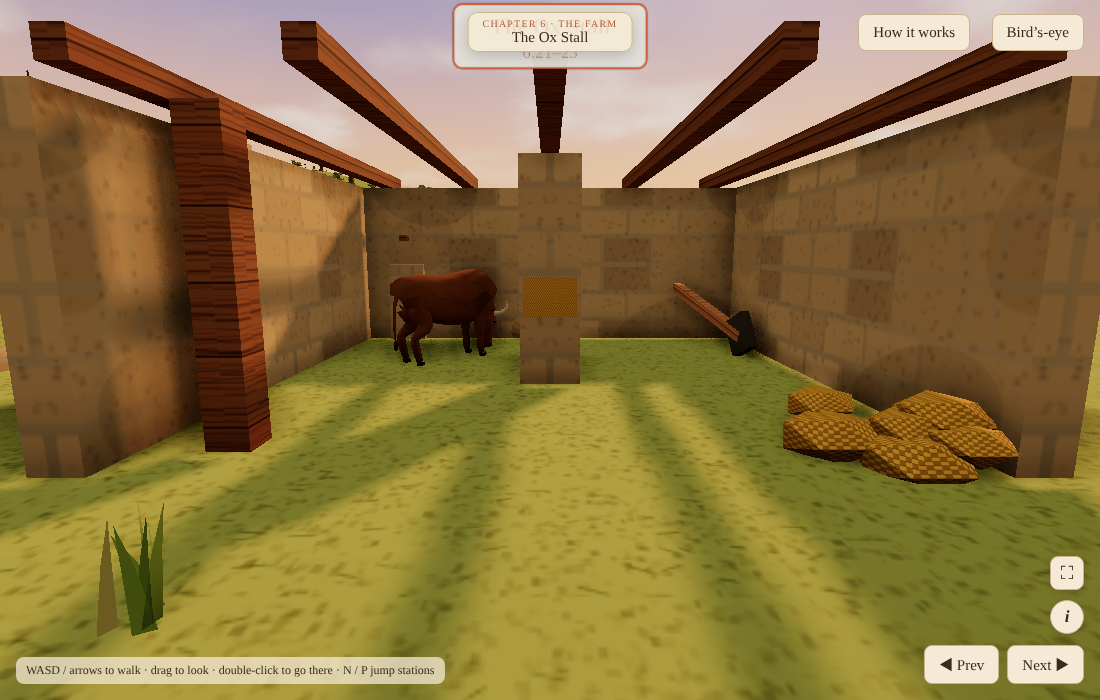
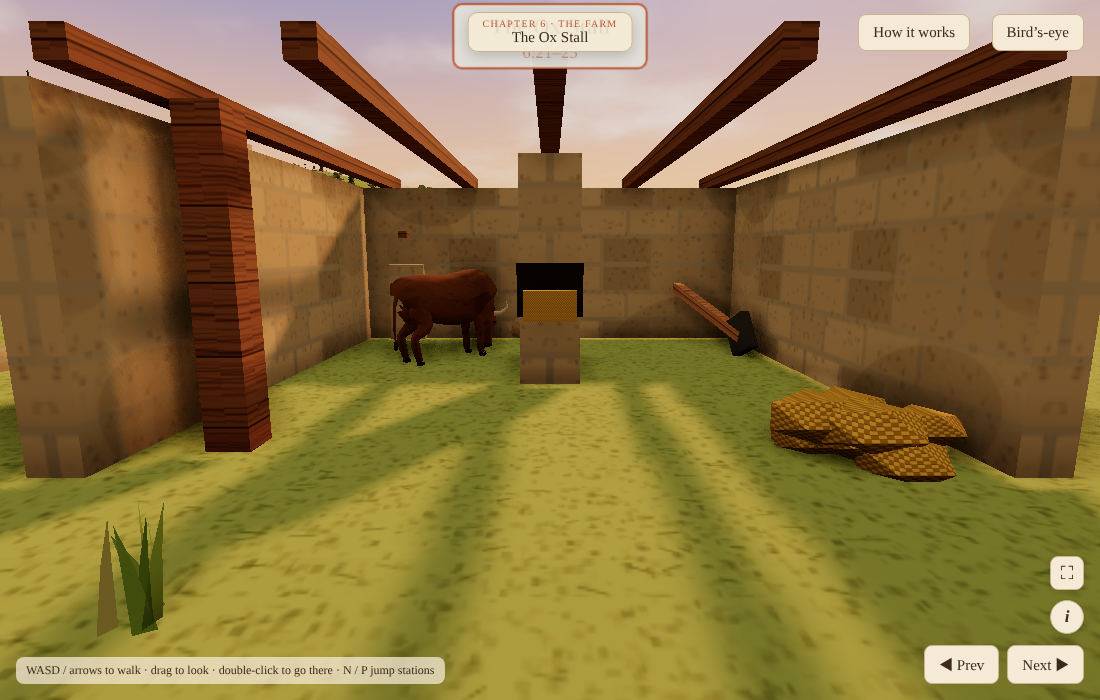
Sermon on the Mount: plain Galilean houses instead of library villas; fixes to the ten weakest rooms (phase 4 pass 2)
Claude-Session: https://claude.ai/code/session_011GTaBjBmrRYMxR8CbFEKPF

Changed region(s): [[0.68, 0.54, 0.9273, 0.69], [0.4636, 0.36, 0.5564, 0.48], [0.34, 0.33, 0.3709, 0.36]]

diff --git a/som-ltm/world/farm.js b/som-ltm/world/farm.js
@@ -19,7 +19,7 @@ wallGaps(112, -104, 168, -104, 1.6, [[25, 31]]);      // south wall, the lower g
 wallRun(112, -6, 112, -104, 1.6); wallRun(168, -6, 168, -104, 1.6);
 wallGaps(112, -62, 168, -62, 1.1, [[26, 32]]);        // the terrace wall between the house and the fields, its gate at x 138–144
 for (const [x, z] of [[131, -6], [137, -6], [137, -104], [143, -104]]) box(.8, 2, .8, rockDk, x, heightAt(x, z) - .1, z);   // gate piers
-libAt('plaster-house-two-storey', 115.5, -16, Math.PI / 2, .9);   // the farmhouse behind the courtyard
+galHouse(115.5, -16, 8, 5, 3.2, Math.PI / 2, plasterM);   // the farmhouse behind the courtyard, its door towards the court
 // ---- 6.1 THE COURTYARD (6:1–5): gate pier · curtained doorway · stair to the roof · roof-roller · cistern lid ----
 defBuilder('som.court', (r, { ch }) => { const F = roomFrame(r), h = 2.6, sp = SQ(h).map(([f, s]) => F.at(f, s)), out = [];
   { const g = atR(F, 0, 0); box(2 * h + 2, .08, 2 * h + 2, paleM, 0, 0, 0, g); }                                      // the paving
@@ -49,13 +49,13 @@ defBuilder('som.store', (r, { ch }) => { const F = roomFrame(r), h = 2.3, sp = S
 
 // ---- 6.3 THE BAKEHOUSE YARD (6:11–15): sieve on its hook · woodpile · clay oven · smoke-stained corner · kneading bowl ----
 defBuilder('som.bake', (r, { ch }) => { const F = roomFrame(r), h = 2.5, sp = SQ(h).map(([f, s]) => F.at(f, s)), out = [];
-  { const g = atR(F, -h, -h); cyl(.07, .08, 1.9, 6, 'wood', 0, 0, 0, g); box(.3, .05, .05, 'wood', 0, 1.6, .12, g); const rim = add(new THREE.TorusGeometry(.34, .05, 6, 18), 'woodLt', 0, 1.3, .24, g); const mesh = cyl(.32, .32, .02, 16, mat('somMesh', '#d8c08a'), 0, 1.3, .24, g); mesh.material.map = TEX.wicker; mesh.rotation.x = Math.PI / 2; out.push(ground(sp[0], 1.95)); }   // the sieve, rim and mesh, hung on its post
+  { const g = atR(F, -h, -h); cyl(.07, .08, 1.9, 6, 'wood', 0, 0, 0, g); box(.3, .05, .05, 'wood', 0, 1.6, .12, g); const rim = add(new THREE.TorusGeometry(.26, .045, 6, 18), 'woodLt', 0, 1.3, .2, g); const mesh = cyl(.24, .24, .02, 16, mat('somMesh', '#d8c08a'), 0, 1.3, .24, g); mesh.material.map = TEX.wicker; mesh.rotation.x = Math.PI / 2; out.push(ground(sp[0], 1.95)); }   // the sieve, rim and mesh, hung on its post
   { const g = atR(F, h + 1.4, 0); box(2 * h + 3, 1, .45, mudM, 0, 0, 0, g); const g2 = atR(F, 0, -h - 1.4); box(.45, 1, 2 * h + 3, mudM, 0, 0, 0, g2); }   // low mud-brick yard walls
   { const g = atR(F, h, -h); for (let row = 0; row < 3; row++) for (let k = 0; k < 5 - row; k++) { const l = cyl(.11, .11, 1.3, 6, 'wood', -.5 + k * .24 + row * .12, .11 + row * .2, 0, g); l.rotation.x = Math.PI / 2; l.position.y = .11 + row * .2; } out.push(ground(sp[1], .75)); }   // the woodpile
-  { const [x, z] = sp[2], y = heightAt(x, z); const oy = libAt('bread-oven', x, z, F.yaw, 1);
+  { const [x, z] = sp[2], y = heightAt(x, z); const oy = libAt('bread-oven', x, z, F.yaw, 1.35);
     for (let k = 0; k < 4; k++) { const [lx, lz] = F.at(h - 1.1, h - .4 + k * .3); cyl(.17, .17, .05, 10, mat('somLoaf', '#c8964e'), lx, heightAt(lx, lz) + .02, lz); } out.push({ x, z, y: oy }); }   // the clay oven, loaves cooling beside it
-  { const g = atR(F, -h - .3, h + .3); box(.45, 1.1, 1.6, mudM, -.2, 0, .5, g); box(1.6, 1.1, .45, mudM, -.5, 0, .2, g); box(1.2, 1.1, .02, darkM, -.4, .02, -.03, g); box(.02, 1.1, 1.2, darkM, .03, .02, .2, g); for (let k = 0; k < 4; k++) box(.12, R(.5, 1), .02, mat('somSoot', '#2a2420'), -.9 + k * .3, .5, -.04, g); out.push(ground(sp[3], .2)); }   // the yard's corner, blackened with smoke
-  { const g = atR(F, 0, 0); box(.8, .45, .8, rockM, 0, 0, 0, g); cyl(.58, .36, .3, 18, clayM, 0, .45, 0, g); add(new THREE.CircleGeometry(.5, 18), mat('somDough', '#efe2c4'), 0, .72, 0, g).rotation.x = -Math.PI / 2; const cl = box(.9, .02, .5, clothM, .25, .76, .15, g); cl.rotation.z = -.25; out.push({ x: F.x, z: F.z, y: F.y + .9 }); }   // the wide kneading bowl, dough and a cloth
+  { const g = atR(F, -h - .3, h + .3); box(.45, 1.1, 1.6, mudM, -.2, 0, .5, g); box(1.6, 1.1, .45, mudM, -.5, 0, .2, g); box(1.2, 1.1, .02, darkM, -.4, .02, -.03, g); box(.02, 1.1, 1.2, darkM, .03, .02, .2, g); out.push(ground(sp[3], .2)); }   // the yard's corner, blackened with smoke
+  { const g = atR(F, 0, 0); for (const [a, b] of [[-.3, -.3], [.3, -.3], [-.3, .3], [.3, .3]]) cyl(.05, .05, .4, 5, 'wood', a, 0, b, g); box(.85, .06, .85, 'woodLt', 0, .4, 0, g); cyl(.58, .36, .3, 18, clayM, 0, .45, 0, g); add(new THREE.CircleGeometry(.5, 18), mat('somDough', '#efe2c4'), 0, .72, 0, g).rotation.x = -Math.PI / 2; const cl = box(.9, .02, .5, clothM, .25, .76, .15, g); cl.rotation.z = -.25; out.push({ x: F.x, z: F.z, y: F.y + .9 }); }   // the wide kneading bowl, dough and a cloth
   finishRoom(ch, r, F, out); });
 
 // ---- 6.4 THE SPRING (6:16–20): spout · oil flask on a ledge (v) · wash-line · willow · flat stones across the outflow ----
@@ -76,10 +76,10 @@ defBuilder('som.stall', (r, { ch }) => { const F = roomFrame(r), h = 2.5, sp = S
   box(.4, 2.6, 2 * h + 1.8, dryStone, -h - .9, 0, .2, g); box(.4, 2.6, 2 * h + 1.8, dryStone, h + .9, 0, .2, g); box(2 * h + 2.2, 2.6, .4, dryStone, 0, 0, h + 1, g);   // three walls, open front
   for (let k = -2; k <= 2; k++) box(.2, .2, 2 * h + 2.4, 'wood', k * 1.4, 2.6, .2, g);   // open roof beams, so the stall is lit
   { const s2 = atR(F, -h, -h); box(.35, 2.6, .35, 'wood', 0, 0, 0, s2); out.push(ground(sp[0], 1.4)); }                     // the left stall post
-  { const s2 = atR(F, h + .7, -h); box(.1, .1, .35, 'wood', 0, 1.7, 0, s2); box(1.9, .18, .18, 'woodLt', 0, 1.72, -.22, s2); for (const s3 of [-.6, .6]) { const u = add(new THREE.TorusGeometry(.22, .05, 5, 10, Math.PI), 'wood', s3, 1.5, -.22, s2); u.rotation.z = Math.PI; } box(.6, 1.3, .45, dryStone, 0, 0, -.2, s2); out.push(ground(F.at(h + .7, -h), 1.4)); }   // the yoke, made for two, on its peg
+  { const s2 = atR(F, h + .7, -h); box(.12, .12, .4, 'wood', 0, 1.75, 0, s2); const ybm = add(new THREE.TorusGeometry(1.1, .1, 6, 16, Math.PI * .5), 'woodLt', 0, .95, -.25, s2); ybm.rotation.z = Math.PI * .75; for (const s3 of [-.6, .6]) { const u = add(new THREE.TorusGeometry(.22, .05, 5, 10, Math.PI), 'wood', s3, 1.5, -.22, s2); u.rotation.z = Math.PI; } box(.6, 1.3, .45, dryStone, 0, 0, -.2, s2); out.push(ground(F.at(h + .7, -h), 1.4)); }   // the yoke, made for two, on its peg
   { const s2 = atR(F, h, h, .3); const b = box(.16, .16, 2.3, 'woodLt', 0, .55, 0, s2); b.rotation.x = .3; const sh = box(.14, .55, .45, ironM, 0, .05, 1.05, s2); sh.rotation.x = -.5; const hn = box(.1, .9, .1, 'woodLt', 0, .55, -1.05, s2); hn.rotation.x = -.4; box(.5, .08, .08, 'woodLt', 0, 1.0, -1.2, s2); out.push(ground(sp[2], .85)); }   // the plough
   { const [x, z] = sp[3]; for (let k = 0; k < 10; k++) add(new THREE.IcosahedronGeometry(R(.3, .45), 0), strawM, x + R(-.5, .5), heightAt(x, z) + R(0, .3), z + R(-.5, .5)).scale.y = .5; out.push(ground(sp[3], .55)); }   // straw bedding
-  { box(.7, 2.6, .7, dryStone, F.x, F.y, F.z); const [nx, nz] = F.at(-.36, 0); const n = box(.6, .45, .2, strawM, nx, F.y + .8, nz); n.rotation.y = F.yaw; out.push({ x: F.x, z: F.z, y: F.y + 2.85 }); }   // the roof pillar, its feeding niche filled with fodder
+  { box(.7, 2.6, .7, dryStone, F.x, F.y, F.z); const [nx, nz] = F.at(-.36, 0); const nb = box(.75, .6, .12, darkM, nx - F.fx * .01, F.y + .8, nz - F.fz * .01); nb.rotation.y = F.yaw; const n = box(.6, .35, .16, strawM, nx - F.fx * .06, F.y + .75, nz - F.fz * .06); n.rotation.y = F.yaw; out.push({ x: F.x, z: F.z, y: F.y + 2.85 }); }   // the roof pillar, its feeding niche filled with fodder
   { const [x, z] = F.at(1.3, -1.5); libAt('ox-grazing', x, z, F.yaw + .5, .85); }   // the ox
   finishRoom(ch, r, F, out); });
 
@@ -88,9 +88,9 @@ defBuilder('som.granary', (r, { ch }) => { const F = roomFrame(r), h = 2.5, sp =
   { const g = atR(F, -h, -h); for (let k = 0; k < 3; k++) box(1.2, .2 * (k + 1), .5, dryStone, 0, 0, -k * .5, g); out.push(ground(sp[0], .7)); }   // the terrace steps
   { const [x, z] = sp[1]; libAt('garden-plot', x, z, F.yaw, .8); out.push(ground(sp[1], .35)); }   // the patch of lentils
   { const g = atR(F, h, h); cyl(.05, .05, 2.2, 5, 'wood', 0, 0, 0, g); box(1.3, .06, .06, 'wood', 0, 1.6, 0, g); const rag = mat('somRag', '#9a6a4a'); rag.map = TEX.cloth; box(.7, .9, .22, rag, 0, 1.0, 0, g); for (const sd of [-1, 1]) box(.35, .5, .05, rag, sd * .55, 1.2, .1, g); add(new THREE.SphereGeometry(.2, 8, 6), strawM, 0, 2.05, 0, g); add(new THREE.ConeGeometry(.3, .25, 8), strawM, 0, 2.3, 0, g); out.push(ground(sp[2], .5)); }   // the scarecrow
-  { const g = atR(F, -h + .9, h + 2.1, -Math.PI / 2); box(2.6, 2.6, 2.6, dryStone, 0, 0, 0, g); add(new THREE.SphereGeometry(1.35, 10, 6, 0, 6.3, 0, 1.57), mudM, 0, 2.6, 0, g).scale.y = .7; box(.9, 1.6, .1, 'wood', 0, 0, 1.33, g); box(1.1, .12, .2, 'woodLt', 0, 1.6, 1.36, g); out.push(ground(F.at(-h + .9, h + .6), .15)); }   // the stone granary, its door facing the field
+  { const g = atR(F, -h + .9, h + 1.5, -Math.PI / 2); g.scale.setScalar(.8); box(2.6, 2.6, 2.6, dryStone, 0, 0, 0, g); add(new THREE.SphereGeometry(1.35, 10, 6, 0, 6.3, 0, 1.57), mudM, 0, 2.6, 0, g).scale.y = .7; box(.9, 1.6, .1, 'wood', 0, 0, 1.33, g); box(1.1, .12, .2, 'woodLt', 0, 1.6, 1.36, g); out.push(ground(F.at(-h + .9, h + .6), .15)); }   // the stone granary, its door facing the field
   { for (let k = -2; k <= 2; k++) { const [x, z] = F.at(k * .6, 0); const fr = box(.25, .1, 3.2, mudM, x, heightAt(x, z) - .02, z); fr.rotation.y = F.yaw; }
-    const [x, z] = F.at(0, .3); const hd = cyl(.05, .05, 1.8, 6, 'woodLt', x, heightAt(x, z) + .14, z); hd.rotation.set(0, F.yaw, Math.PI / 2); const [bx2, bz2] = F.at(0, 1.2); const bl = box(.1, .4, .36, ironM, bx2, heightAt(bx2, bz2) + .02, bz2); bl.rotation.y = F.yaw; out.push({ x: F.x, z: F.z, y: F.y + .3 }); }   // furrows and the hoe
+    const [x, z] = F.at(0, .3); const hd = cyl(.05, .05, 1.8, 6, 'woodLt', x, heightAt(x, z) + .14, z); hd.rotation.set(0, F.yaw, .9); hd.position.y += .6; const [bx2, bz2] = F.at(0, 1.2); const bl = box(.1, .4, .36, ironM, bx2, heightAt(bx2, bz2) + .02, bz2); bl.rotation.y = F.yaw; out.push({ x: F.x, z: F.z, y: F.y + .3 }); }   // furrows and the hoe
   finishRoom(ch, r, F, out); });
 
 // ---- 6.7 THE OLIVE PRESS (6:31–34): crushing stone · press beam in its wall socket · rope pulp-baskets · oil collecting pit ----

diff --git a/som-ltm/world/mount.js b/som-ltm/world/mount.js
@@ -35,6 +35,14 @@ function libAt(id, x, z, rot = 0, s = 1, dy = 0) { const g = new THREE.Group(), 
   g.updateMatrixWorld(true); return new THREE.Box3().setFromObject(g).max.y; }
 function somRock(x, z, s, y) { const m = add(new THREE.DodecahedronGeometry(s, 0), rnd() > .4 ? rockM : rockDk, x, (y ?? heightAt(x, z)) + s * .3, z); m.rotation.set(R(0, 3), R(0, 3), R(0, 3)); m.scale.y = .65; return (y ?? heightAt(x, z)) + s * .95; }
 const ground = ([x, z], up = .12) => ({ x, z, y: heightAt(x, z) + up });
+// a plain first-century Galilean house: thick walls (stone or mud plaster), a flat roof of beams under packed reeds, a low parapet,
+// a dark doorway on its front (local +z) and a small window. Used instead of library houses that read as later or European.
+function galHouse(x, z, w, d, hgt, rot, m, dy = 0) { const g = new THREE.Group(); g.position.set(x, heightAt(x, z) + dy - .1, z); g.rotation.y = rot; scene.add(g);
+  box(w, hgt, d, m, 0, 0, 0, g); for (let k = 0; k < Math.floor(w / .6); k++) box(.14, .14, d + .3, 'wood', -w / 2 + .3 + k * .6, hgt - .1, 0, g);
+  const rf = box(w + .1, .14, d + .1, mat('somRoofReed', '#b8a070'), 0, hgt, 0, g); rf.material.map = TEX.wicker;
+  for (const [a, b, c, e] of [[w + .1, .3, .14, d / 2], [w + .1, .3, .14, -d / 2]]) box(a, b, c, m, 0, hgt + .1, e, g);
+  box(.95, 1.8, .06, mat('somDoorDark', '#2a2018'), -w * .2, 0, d / 2 + .02, g); box(1.15, .16, .12, 'wood', -w * .2, 1.8, d / 2 + .04, g);
+  box(.45, .4, .06, mat('somDoorDark', '#2a2018'), w * .25, 1.35, d / 2 + .02, g); return g; }
 // hand the room to the engine: spots [{ x, y, z }] in the fixed order, one per verse
 function finishRoom(ch, r, F, spots) {
   station(ch, r.room, r.name, F.x, F.z, [F.x + F.fx, 0, F.z + F.fz], spots.slice(0, r.objects.filter(o => !o.extra).length).map((p, i) => ({ ...p, what: r.objects[i].what })));
@@ -43,19 +51,19 @@ function finishRoom(ch, r, F, spots) {
 
 // ---- 5.1 THE SEAT (5:1–5): olive tree · limestone pavement · split boulder with a thornbush · water bag on a stake · the seat-rock ----
 defBuilder('som.seat', (r, { ch }) => { const F = roomFrame(r), h = 2.6, sp = SQ(h).map(([f, s]) => F.at(f, s)), out = [];
-  { const [x, z] = sp[0]; libAt('olive-tree-gnarled', x, z, 0, 1); out.push(ground([x, z], .6)); }
-  { const g = atR(F, h, -h, .3); box(2.8, .22, 2, paleM, 0, -.02, 0, g); box(1.7, .2, 1.4, paleM, .9, .04, -1, g); box(.02, .05, 1.8, darkM, .4, .2, 0, g); box(1.4, .05, .02, darkM, -.4, .2, .3, g); out.push(ground(sp[1], .32)); }   // bare limestone pavement, pale and cracked
+  { const [x, z] = sp[0]; libAt('olive-tree-gnarled', x, z, 0, .72); out.push(ground([x, z], .6)); }
+  { const g = atR(F, h, -h, .3); box(3.4, .24, 2.4, paleM, 0, -.02, 0, g); box(2, .22, 1.6, paleM, 1.1, .04, -1.1, g); box(1.4, .2, 1.2, paleM, -1.2, .03, 1, g); box(.02, .05, 1.8, darkM, .4, .2, 0, g); box(1.4, .05, .02, darkM, -.4, .2, .3, g); out.push(ground(sp[1], .32)); }   // bare limestone pavement, pale and cracked
   { const [x, z] = sp[2]; const a = somRock(x - .8, z, .85), b = somRock(x + .8, z + .05, .8); for (let k = 0; k < 9; k++) { const t = add(new THREE.ConeGeometry(.05, .5, 4), mat('somThorn', '#7a9a3e'), x + R(-.2, .2), heightAt(x, z) + R(.2, .7), z + R(-.25, .25)); t.rotation.set(R(-.6, .6), 0, R(-.6, .6)); } out.push({ x, z, y: Math.max(a, b) + .1 }); }   // the split boulder, a thornbush in the gap
   { const g = atR(F, -h, h); const st = cyl(.06, .08, 1.6, 6, 'wood', 0, 0, 0, g); for (const k of [-1, 1]) { const fk = cyl(.03, .04, .35, 5, 'wood', k * .08, 1.55, 0, g); fk.rotation.z = -k * .5; }
     const sk = mat('somSkin2', '#8a6040'); sk.map = TEX.cloth; const bag = add(new THREE.CapsuleGeometry(.26, .42, 4, 10), sk, 0, 1.05, .2, g); bag.rotation.x = .25; for (const [lx, ly] of [[-.2, .82], [.2, .82], [-.18, 1.3], [.18, 1.3]]) { const lg = cyl(.04, .03, .2, 5, sk, lx, ly, .22, g); lg.rotation.z = lx < 0 ? .6 : -.6; } cyl(.05, .07, .16, 6, sk, 0, 1.45, .14, g); out.push(ground(sp[3], 1.75)); }   // the goatskin water bag, its tied legs and neck, hung on a forked stake
-  { const [cx, cz] = sp[4]; const seat = cyl(1.3, 1.5, .6, 8, rockM, cx, F.y - .05, cz); seat.rotation.y = .3; box(1.5, .06, 1, paleM, cx, F.y + .5, cz).rotation.y = F.yaw; for (let k = 0; k < 6; k++) { const a = k / 6 * 6.28; somRock(cx + Math.cos(a) * 1.7, cz + Math.sin(a) * 1.7, .22); } out.push({ x: cx, z: cz, y: F.y + .7 }); }   // the flat seat-rock where he sat
+  { const [cx, cz] = sp[4]; const seat = add(new THREE.DodecahedronGeometry(1.35, 0), rockM, cx, F.y + .15, cz); seat.scale.set(1.25, .38, 1); seat.rotation.y = .5; const top = add(new THREE.CylinderGeometry(.95, 1, .12, 7), paleM, cx, F.y + .58, cz); top.rotation.y = .2; for (let k = 0; k < 6; k++) { const a = k / 6 * 6.28; somRock(cx + Math.cos(a) * 1.7, cz + Math.sin(a) * 1.7, .22); } out.push({ x: cx, z: cz, y: F.y + .7 }); }   // the flat seat-rock where he sat
 
   finishRoom(ch, r, F, out); });
 
 // ---- 5.2 THE SHEEPFOLD (5:6–10): gateway · slab-roofed corner · oak corner · crook on the wall · water trough ----
 defBuilder('som.fold', (r, { ch }) => { const F = roomFrame(r), h = 3, W = .55, H = .95, sp = SQ(h).map(([f, s]) => F.at(f, s)), out = [];
   const seg = (a, b, hh = H) => { const [x0, z0] = F.at(...a), [x1, z1] = F.at(...b), L = Math.hypot(x1 - x0, z1 - z0);
-    const m = box(L, hh, W, dryStone, (x0 + x1) / 2, Math.min(heightAt(x0, z0), heightAt(x1, z1)) - .1, (z0 + z1) / 2); m.rotation.y = -Math.atan2(z1 - z0, x1 - x0); };
+    const y0 = Math.min(heightAt(x0, z0), heightAt(x1, z1)) - .1; const n = Math.max(2, Math.round(L / .5)); for (let row = 0; row < Math.round(hh / .3); row++) for (let k = 0; k < n; k++) { const t = (k + (row % 2) * .5) / n; if (t > 1) continue; const st = add(new THREE.DodecahedronGeometry(R(.24, .32), 0), rnd() > .5 ? rockM : rockDk, x0 + (x1 - x0) * t, y0 + .15 + row * .28, z0 + (z1 - z0) * t); st.scale.set(1.2, .7, 1); st.rotation.y = R(0, 3); } };
   seg([-h, -h + 1.5], [-h, h], .5);   // the near wall kept low so you can see into the fold seg([-h + 1.5, -h], [h, -h]); seg([h, -h], [h, h]); seg([h, h], [-h, h]);   // the gateway is the open near-left corner
   for (const s of [-h + 1.5, -h + 1.6]) { const g = atR(F, -h, s); }
   { for (const [f, s2] of [[-h, -h + 1.6], [-h + 1.6, -h]]) { const [x, z] = F.at(f, s2); box(.6, 1.3, .6, rockM, x, heightAt(x, z) - .1, z); } out.push(ground(sp[0], .12)); }   // the gateway, two big stones either side of the gap
@@ -112,12 +120,12 @@ defBuilder('som.charcoal', (r, { ch }) => { const F = roomFrame(r), h = 2.6, sp 
 
 // ---- 5.7 THE BEE BANK (5:31–35): capped bank end · stacked hive pipes · smoker pot · bees' water dish · tray of comb ----
 defBuilder('som.bees', (r, { ch }) => { const F = roomFrame(r), h = 2.5, sp = SQ(h).map(([f, s]) => F.at(f, s)), out = [];
-  { const g = atR(F, .2, -h - .9); box(1.1, .8, 2 * h + .9, dryStone, 0, 0, 0, g); }                         // the bank along the left side, from near to far
+  { const g = atR(F, .2, -h - .9); const bk = box(1.3, .9, 2 * h + .9, mat('somEarth', '#a88a5e'), 0, 0, 0, g); bk.material.map = TEX.plaster; for (let k = 0; k < 6; k++) add(new THREE.CircleGeometry(.11, 8), darkM, -.66, .5, -h + .2 + k * .8, g).rotation.y = -Math.PI / 2; }   // the earth bank, hive mouths in its face                         // the bank along the left side, from near to far
   { const [x, z] = sp[0]; box(1.2, .9, 1.2, dryStone, x, heightAt(x, z) - .05, z); add(new THREE.SphereGeometry(.62, 8, 5, 0, 6.3, 0, 1.57), rockM, x, heightAt(x, z) + .85, z); out.push(ground(sp[0], 1.5)); }   // the bank's rounded end, with its capstone   // the capstone on its near end
   { const g = atR(F, h, -h); for (let row = 0; row < 3; row++) for (let k = 0; k < 3 - row; k++) { const p = cyl(.2, .2, 1.1, 10, clayM, (k - (2 - row) / 2) * .44, 0, 0, g); p.rotation.x = Math.PI / 2; p.position.y = .2 + row * .38; add(new THREE.CircleGeometry(.12, 10), darkM, (k - (2 - row) / 2) * .44, .2 + row * .38, .56, g); } out.push(ground(sp[1], 1.25)); }   // the stacked clay hive pipes, mouths towards you
   { const g = atR(F, h, h); somRock(...F.at(h, h), .45); cyl(.22, .28, .55, 10, clayM, 0, .5, 0, g); const sp2 = cyl(.04, .06, .3, 6, clayM, .16, .82, 0, g); sp2.rotation.z = -.6; for (let k = 0; k < 4; k++) { const m = add(new THREE.SphereGeometry(.12 + k * .06, 8, 6), mat('somSmoke', '#e6e1da', { transparent: true, opacity: .5 }), .3 + k * .12, 1.0 + k * .3, 0, g); } out.push(ground(sp[2], 1.0)); }   // the smoker pot, smoking
   { const g = atR(F, -h, h); const bw = add(new THREE.SphereGeometry(.45, 14, 6, 0, 6.3, Math.PI / 2, Math.PI / 2), clayM, 0, .3, 0, g); bw.material.side = THREE.DoubleSide; add(new THREE.CircleGeometry(.4, 14), mat('somWater', '#6fb3c8'), 0, .24, 0, g).rotation.x = -Math.PI / 2; for (let k = 0; k < 3; k++) add(new THREE.DodecahedronGeometry(.07, 0), rockM, -.15 + k * .15, .27, R(-.1, .1), g); out.push(ground(sp[3], .45)); }   // a shallow clay bowl of water, stones for the bees to land on
-  { const g = atR(F, 0, 0); box(1.1, .6, .8, rockM, 0, 0, 0, g); box(1, .07, .7, 'woodLt', 0, .6, 0, g); for (let k = 0; k < 4; k++) { const c2 = box(.2, .1, .55, combM, -.33 + k * .22, .67, 0, g); c2.material.map = TEX.wicker; } out.push({ x: F.x, z: F.z, y: F.y + .85 }); }   // the tray of golden comb on a stone
+  { const g = atR(F, 0, 0); box(1.1, .6, .8, rockM, 0, 0, 0, g); box(1, .07, .7, 'woodLt', 0, .6, 0, g); for (let a = 0; a < 6; a++) for (let b = 0; b < 4; b++) cyl(.07, .07, .1, 6, combM, -.38 + a * .15 + (b % 2) * .075, .68, -.25 + b * .13, g); for (let k = 0; k < 12; k++) add(new THREE.SphereGeometry(.035, 5, 4), darkM, R(-.8, .8), R(.9, 1.6), R(-.6, .6), g); out.push({ x: F.x, z: F.z, y: F.y + .85 }); }   // the tray of golden comb on a stone
   finishRoom(ch, r, F, out); });
 
 // ---- 5.8 THE SHEPHERDS' CAMP (5:36–40): guy-rope peg · the tent's open front and pole · quern · ground loom · hearth stones ----

diff --git a/som-ltm/world/village.js b/som-ltm/world/village.js
@@ -20,10 +20,10 @@ defBuilder('som.boat', (r, { ch }) => { const F = roomFrame(r), h = 2.4, sp = SQ
 defBuilder('som.fisher', (r, { ch }) => { const F = roomFrame(r), h = 2.4, sp = SQ(h).map(([f, s]) => F.at(f, s)), out = [];
   const g = atR(F, 0, 0, Math.PI);
   box(.5, .9, 2 * h + 2, basaltM, -h - .9, 0, 0, g); box(.5, .9, 2 * h + 2, basaltM, h + .9, 0, 0, g);                       // basalt side walls
-  box(2 * h + 2.3, .9, .5, basaltM, 0, 0, h + 1.3, g); { const [hx, hz] = F.at(h + 4, 0); libAt('mud-brick-house', hx, hz, F.yaw, .75); }   // the back wall, the house behind it
-  for (const s3 of [-h - 1.1, -h + 1.1]) { const [px, pz] = F.at(-h - 1, s3); box(.5, .6, .5, paleM, px, heightAt(px, pz) - .1, pz); } out.push(ground(F.at(-h - 1, -h), .15));   // the courtyard entrance between two low pale stones
-  { const s2 = atR(F, h, -h); box(1.8, .5, 1.3, plasterM, 0, 0, 0, s2); box(1.55, .06, 1.05, mat('somBrine', '#a8c4bc'), 0, .46, 0, s2); for (let k = 0; k < 10; k++) add(new THREE.DodecahedronGeometry(.05, 0), mat('somSalt', '#f4f0e8'), R(-.7, .7), .5, R(-.45, .45), s2); for (let k = 0; k < 4; k++) box(.25, .05, .08, mat('somFish', '#9fb0b8'), -.3 + k * .2, .86, R(-.2, .2), s2); out.push(ground(sp[1], 1.0)); }   // the fish-salting vat: stone rim, brine, fish
-  { const [x, z] = sp[2]; libAt('fishing-net', x, z, F.yaw, 1.4); out.push(ground(sp[2], .6)); }   // the net drying on poles
+  box(2 * h + 2.3, .9, .5, basaltM, 0, 0, h + 1.3, g); { const [hx, hz] = F.at(h + 4, 0); galHouse(hx, hz, 6, 3.6, 2.8, F.yaw, basaltM); }   // the back wall, the house behind it
+  { const ge = atR(F, -h - 1, -h); for (const sd of [-1, 1]) box(.22, 1.9, .22, 'wood', sd * 1.05, 0, 0, ge); box(2.4, .2, .25, 'wood', 0, 1.9, 0, ge); } out.push(ground(F.at(-h - 1, -h), .15));   // the courtyard entrance between two low pale stones
+  { const s2 = atR(F, h, -h); cyl(.8, .85, .8, 18, plasterM, 0, 0, 0, s2); cyl(.7, .7, .06, 18, mat('somBrine', '#a8c4bc'), 0, .76, 0, s2); for (let k = 0; k < 10; k++) add(new THREE.DodecahedronGeometry(.05, 0), mat('somSalt', '#f4f0e8'), R(-.5, .5), .82, R(-.5, .5), s2); for (let k = 0; k < 4; k++) box(.25, .05, .08, mat('somFish', '#9fb0b8'), -.3 + k * .2, .86, R(-.2, .2), s2); out.push(ground(sp[1], 1.0)); }   // the fish-salting vat: stone rim, brine, fish
+  { const [x, z] = sp[2]; libAt('fishing-net', x, z, F.yaw, 1.8); out.push(ground(sp[2], .6)); }   // the net drying on poles
   { const [x, z] = sp[3]; out.push({ x, z, y: libAt('basket-of-fish', x, z, F.yaw, 1) }); }   // the basket of fish
   { const g2 = atR(F, 0, 0); box(1, .5, .8, paleM, 0, 0, 0, g2); for (let k = 0; k < 3; k++) add(new THREE.TorusGeometry(.28 - k * .06, .06, 6, 14), mat('somRope', '#c8b48a'), .15, .55 + k * .07, 0, g2).rotation.x = Math.PI / 2; out.push({ x: F.x, z: F.z, y: F.y + .78 }); }   // the pale mending stone, a coil of rope on it
   finishRoom(ch, r, F, out); });
@@ -46,14 +46,14 @@ defBuilder('som.orchard', (r, { ch }) => { const F = roomFrame(r), h = 2.5, sp =
   { const [x, z] = F.at(h + .3, -h - .3); libAt('almond-in-blossom', x, z, 0, 1); out.push(ground(sp[1], .6)); }   // the almond tree in blossom
   { const s2 = atR(F, h + .9, h); box(1.9, 1.15, .25, mat('somNiche', '#8a7a62'), 0, 0, .3, s2); box(1.6, .5, .7, paleM, 0, 0, 0, s2); box(1.6, .08, .75, paleM, 0, .5, 0, s2); out.push(ground(F.at(h + .7, h), .6)); }   // the gardener's pale stone seat, set in a niche of the wall
   { const [x, z] = sp[3]; libAt('village-well', x, z, F.yaw, .65); out.push(ground(sp[3], .8)); }   // the shallow well, rope and bucket
-  { for (let k = 0; k < 22; k++) { const b = cyl(.03, .05, R(1, 1.7), 4, 'wood', F.x + R(-.5, .5), F.y + .1 + R(0, .35), F.z + R(-.5, .5)); b.rotation.set(Math.PI / 2 + R(-.4, .4), R(0, 3), R(-.3, .3)); } for (let k = 0; k < 10; k++) add(new THREE.IcosahedronGeometry(R(.15, .25), 0), mat('somLeaf', '#5f7a3e'), F.x + R(-.6, .6), F.y + R(.2, .55), F.z + R(-.6, .6)); for (const [f2, s3, id] of [[h + 1.5, .2, 'fig-tree'], [h + 1.3, -1.8, 'olive-tree-soft']]) { const [tx, tz] = F.at(f2, s3); libAt(id, tx, tz, R(0, 6), .9); } out.push({ x: F.x, z: F.z, y: F.y + .75 }); }   // a mounded pile of pruned branches; more fruit trees behind
+  { for (let k = 0; k < 30; k++) { const b = cyl(.04, .06, R(1, 1.8), 5, k % 3 ? 'woodLt' : 'wood', F.x + R(-.5, .5), F.y + .1 + R(0, .35), F.z + R(-.5, .5)); b.rotation.set(Math.PI / 2 + R(-.4, .4), R(0, 3), R(-.3, .3)); } for (let k = 0; k < 10; k++) add(new THREE.IcosahedronGeometry(R(.15, .25), 0), mat('somLeaf', '#5f7a3e'), F.x + R(-.6, .6), F.y + R(.2, .55), F.z + R(-.6, .6)); for (const [f2, s3, id] of [[h + 1.5, .2, 'fig-tree'], [h + 1.3, -1.8, 'olive-tree-soft']]) { const [tx, tz] = F.at(f2, s3); libAt(id, tx, tz, R(0, 6), .9); } out.push({ x: F.x, z: F.z, y: F.y + .75 }); }   // a mounded pile of pruned branches; more fruit trees behind
   for (const [f2, s3] of [[-1.2, 1.2], [1.4, .2]]) { const [x, z] = F.at(f2 + 3.5, s3 - 4); }
   finishRoom(ch, r, F, out); });
 
 // ---- 7.5 THE HOUSE ON THE ROCK (7:21–25): hewn doorstep · stone bench · the shelf's edge over the wadi · stone mortar · roofing reeds ----
 defBuilder('som.rock', (r, { ch }) => { const F = roomFrame(r), h = 2.4, sp = SQ(h).map(([f, s]) => F.at(f, s)), out = [], lift = .7;
   { const g = atR(F, .8, 0); box(2 * h + 3.4, lift + .4, 2 * h + 4.6, rockM, 0, -.4, 0, g); box(1.2, lift * .5, .6, rockM, -h - .2, 0, -h - 3, g); }   // the rock shelf, and a step up onto it
-  { const [x, z] = F.at(h + 3.4, 0); libAt('plaster-house-one-storey', x, z, F.yaw, 1, lift - .05); }   // the stone house on the rock
+  { const [x, z] = F.at(h + 3, 0); galHouse(x, z, 7, 3.6, 2.8, F.yaw, dryStone, lift - .05); }   // the stone house on the rock: flat roof of beams and reeds
   const Y = F.y + lift;
   { const g = atR(F, -h, -h); box(1.2, lift * .5, .8, rockM, 0, 0, -.5, g); box(1.2, .22, .8, paleM, 0, lift - .02, 0, g); out.push({ x: sp[0][0], z: sp[0][1], y: Y + .3 }); }   // the step hewn in the rock, up onto the shelf
   { const g = atR(F, h, -h); box(2.2, .45, .55, paleM, 0, lift, 0, g); box(2.2, .5, .15, paleM, 0, lift + .45, .3, g); out.push({ x: sp[1][0], z: sp[1][1], y: Y + .6 }); }   // the long stone bench against the house wall
@@ -67,7 +67,7 @@ defBuilder('som.sand', (r, { ch }) => { const F = roomFrame(r), h = 2.4, sp = SQ
   { const [x, z] = sp[0]; libAt('date-palm', x, z, 0, 1); out.push(ground(sp[0], .6)); }   // the date palm leaning over the house
   { const g = atR(F, h, -h); for (let k = 0; k < 18; k++) cyl(.04, .04, 1.7, 4, reedM, -1.7 + k * .2, 0, 0, g); for (const yy of [.5, 1.3]) box(3.6, .06, .06, 'wood', 0, yy, 0, g); out.push(ground(sp[1], 1.5)); }   // the reed fence round the little yard
   { const [bx, bz] = F.at(h + 1.8, h); const [cx2, cz2] = F.at(h - .5, h + .6); const chn = box(6, .03, 1.6, mat('somGully', '#c8b07a'), cx2, heightAt(cx2, cz2) + .01, cz2); chn.rotation.y = F.yaw; for (let k = 0; k < 8; k++) { const [px, pz] = F.at(h - 3 + k * .8, h + .6 + R(-.5, .5)); somRock(px, pz, .15); } const bank = box(5, 1.3, 2.5, mat('somSand', '#e2cf9e'), bx, heightAt(bx, bz) - .3, bz); bank.rotation.y = F.yaw; bank.material.map = TEX.flag; out.push(ground(sp[2], .2)); }   // the bank across the wadi, the crowd on top of it
-  { const [x, z] = F.at(h + 2.5, h + 4.5); libAt('mud-brick-house', x, z, F.yaw - Math.PI / 2, .9); const g = atR(F, -h, h); box(.45, .8, 2.2, mudM, 0, 0, -.6, g); out.push(ground(F.at(-h, h), .95)); }   // the house set back at the far right; spot 4 is the low mud-brick wall of its yard
+  { const [x, z] = F.at(h + 2.2, h + 4.2); galHouse(x, z, 4.6, 3.6, 2.6, F.yaw - Math.PI / 2, mudM); const g = atR(F, -h, h); box(.45, .8, 2.2, mudM, 0, 0, -.6, g); out.push(ground(F.at(-h, h), .95)); }   // the house set back at the far right; spot 4 is the low mud-brick wall of its yard
   finishRoom(ch, r, F, out); });
 
 // the crowd on the far bank of the wadi, facing the walk's end (7:28–29)
@@ -75,7 +75,7 @@ defBuilder('som.sand', (r, { ch }) => { const F = roomFrame(r), h = 2.4, sp = SQ
   for (let i = 0; i < 40; i++) { const x = R(140, 152), z = R(-146, -132); person(x, z, Math.atan2(158 - x, -149 - z), ROBES[i % ROBES.length], { y: heightAt(x, z) - .55, veil: rnd() > .6 ? '#e8dcc4' : undefined }); } }
 // fishing boats drawn up on the beach, and a few houses of the village behind the street
 for (const [x, rt] of [[182, .3], [210, -.2], [240, .15]]) libAt('galilee-fishing-boat-beached', x, SHORE + 2.5, rt, 1);
-for (const [x, z, id, rt] of [[244, -146, 'mud-brick-house', 0], [212, -132, 'plaster-house-one-storey', .1], [242, -128, 'mud-brick-house-two-storey', -.1], [172, -128, 'mud-brick-house', .2]]) libAt(id, x, z, rt, 1);
+for (const [x, z, w, d, m, rt] of [[246, -146, 6, 4.5, basaltM, Math.PI], [212, -132, 6.5, 4.5, mudM, Math.PI + .1], [242, -128, 7, 5, plasterM, Math.PI - .1], [172, -128, 6, 4.5, basaltM, Math.PI + .2]]) galHouse(x, z, w, d, 2.8, rt, m);
 for (const [x, z, id] of [[210, -158, 'woman-with-water-jar'], [176, -158, 'road-traveller-with-basket'], [252, -157, 'villager-green-tunic']]) libAt(id, x, z, R(0, 6), 1);
 
 buildRooms(3);
